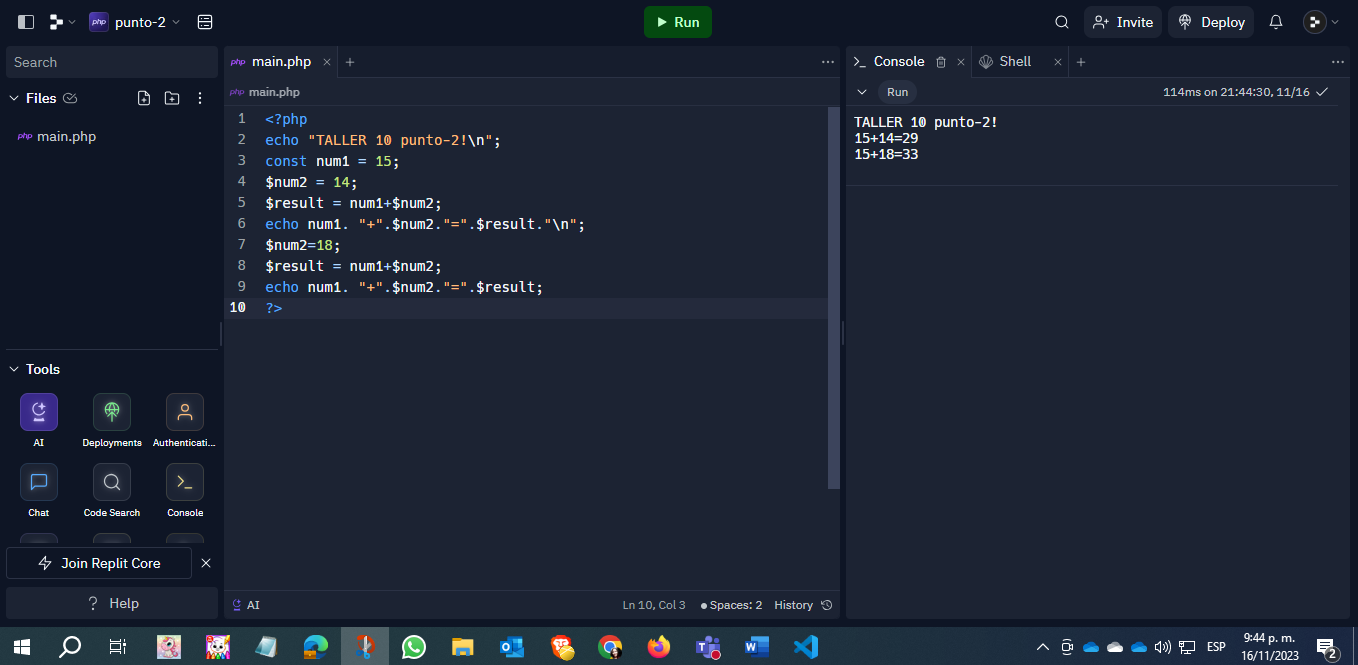
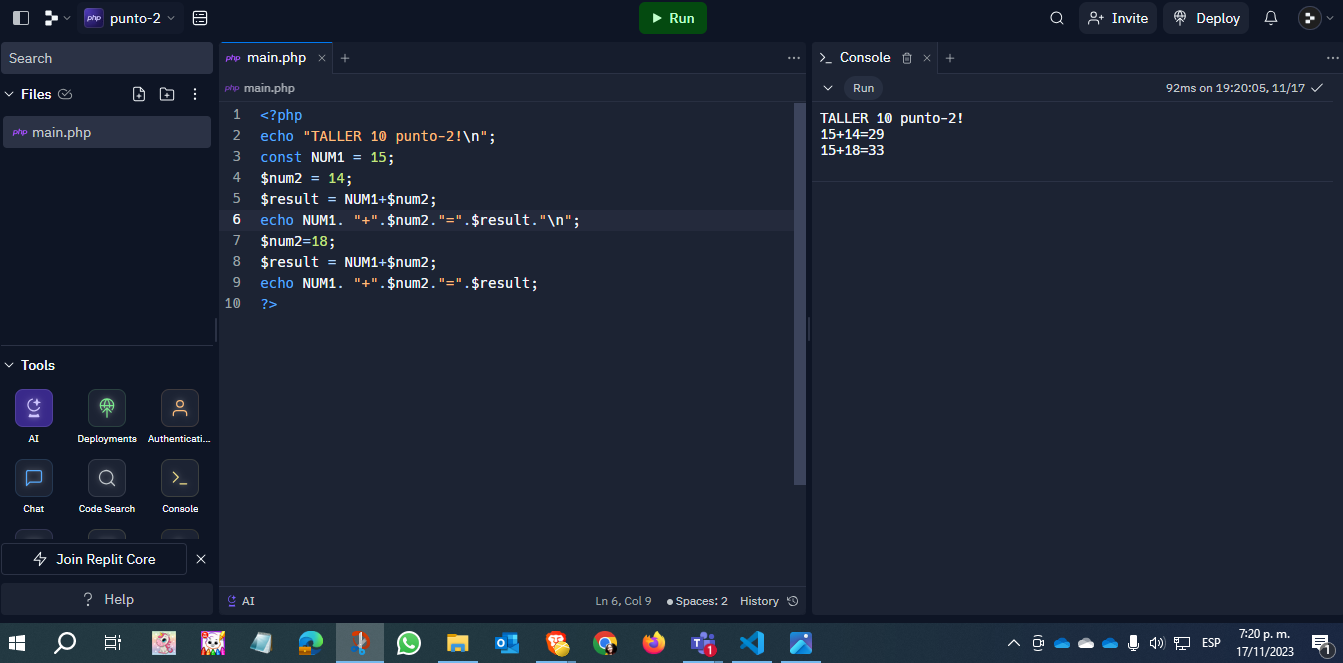
Act_unto-2

diff --git a/punto-2/index.php b/punto-2/index.php
@@ -1,10 +1,10 @@
 <?php
 echo "TALLER 10 punto-2!\n";
-const num1 = 15;
+const NUM1 = 15;
 $num2 = 14;
-$result = num1+$num2;
-echo num1. "+".$num2."=".$result."\n";
+$result = NUM1+$num2;
+echo NUM1. "+".$num2."=".$result."\n";
 $num2=18;
-$result = num1+$num2;
-echo num1. "+".$num2."=".$result;
+$result = NUM1+$num2;
+echo NUM1. "+".$num2."=".$result;
 ?>

diff --git a/README.md b/README.md
@@ -9,7 +9,7 @@
 <h2>Punto 2: Sumas de Constantes y Variables</h2>
 <img  src="./public/images/punto-2.png" alt="Punto 2">
  
-<h2>Punto 3: Suma de dos números indicados por el usuario</h2>
+<h2>Punto 3: Suma de dos números indicados por el usuario</h2>GIT
 <img  src="./public/images/punto-3.png" alt="Punto 3">
 
 <h2>Punto 4: Datos del usuario en consola</h2>
